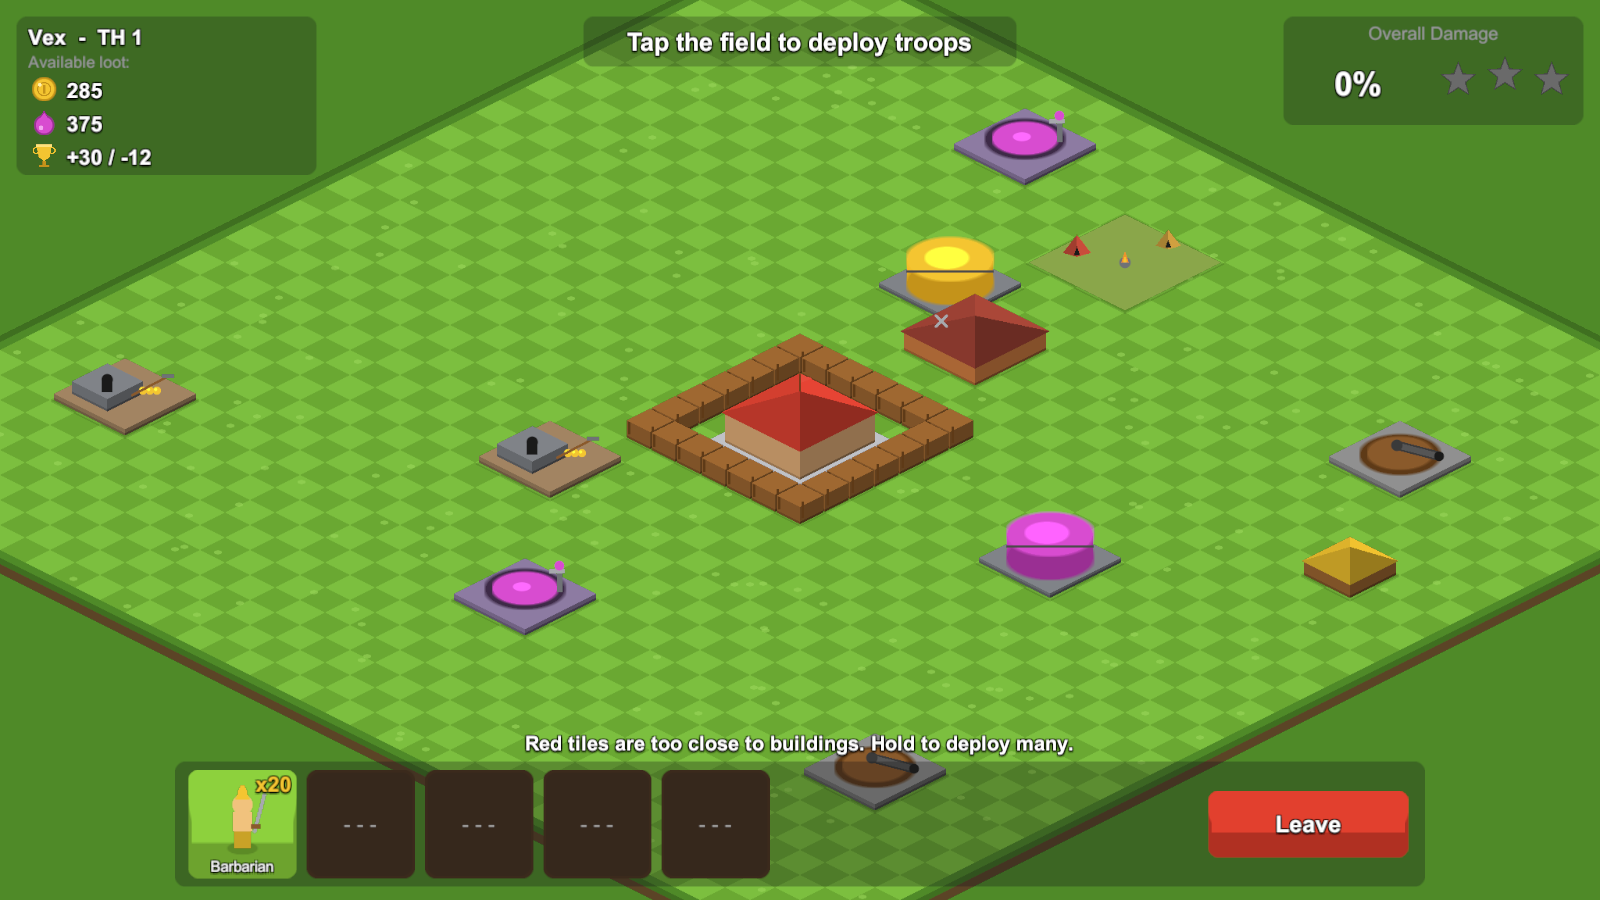
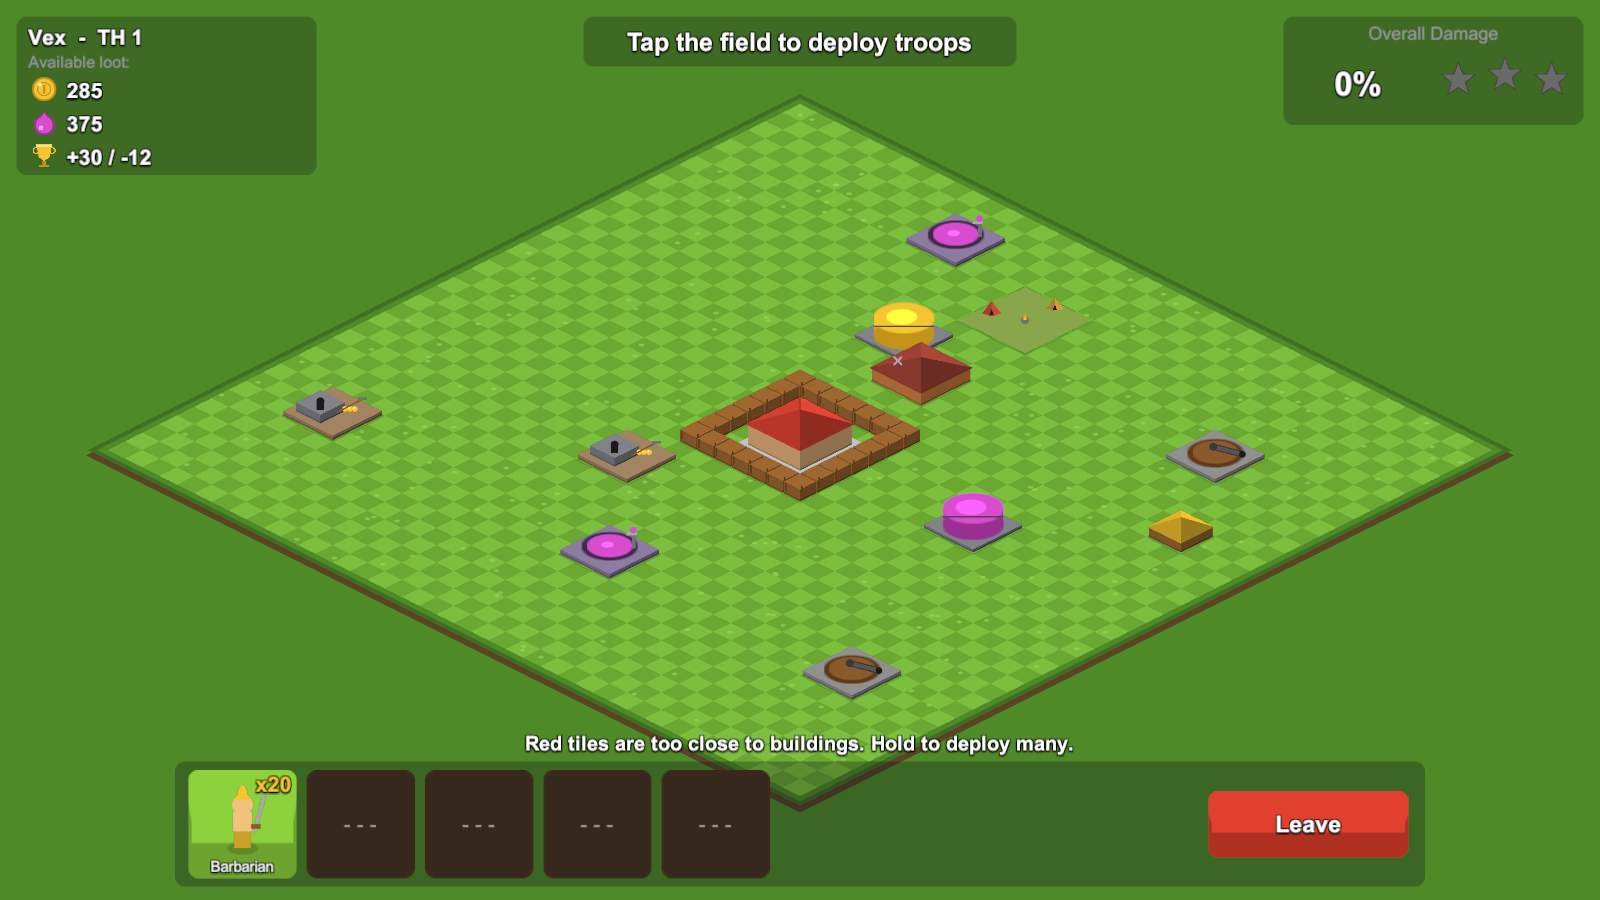
fix(ui): frame whole enemy base in battle; hide clock under shop lock label
- Add Core BattleFraming.Fit: iso bounding box of non-trap enemy buildings,
  zoom/center chosen to fit between HUD top/bottom insets at any aspect;
  5 EditMode tests (70 total).
- BattleHud reports its inset heights and the canvas reference size to
  BattleController, which uses them in Begin instead of a fixed zoom 9.
- ShopPanel deactivates the build-time row on locked cards so the clock
  icon no longer shows through the requirement label.
- Rebuilt, verified (smoke runner on the extracted zip), recaptured the
  13 screens at 1600x900/1280x720/1280x960, replaced docs/screenshots and
  the draft v1.0.0 release assets; CHANGELOG and plan updated.

diff --git a/VillageClash/Assets/Tests/EditMode/BattleFramingTests.cs b/VillageClash/Assets/Tests/EditMode/BattleFramingTests.cs
@@ -1,0 +1,94 @@
+using System.Collections.Generic;
+using NUnit.Framework;
+using VillageClash.Core;
+
+namespace VillageClash.Tests
+{
+    public class BattleFramingTests
+    {
+        static BuildingInstance B(BuildingType t, int x, int y, int size)
+            => new BuildingInstance { Type = t, Origin = new Int2(x, y), Size = size, Level = 1 };
+
+        static List<BuildingInstance> Base() => new List<BuildingInstance>
+        {
+            B(BuildingType.TownHall, 18, 18, 4),
+            B(BuildingType.Cannon, 10, 10, 3),   // bottom corner in iso (low x+y)
+            B(BuildingType.Cannon, 28, 28, 3),   // top corner
+            B(BuildingType.Cannon, 8, 30, 3),    // left-most (low x, high y)
+            B(BuildingType.Cannon, 30, 8, 3),    // right-most
+        };
+
+        static void AssertFootprintsVisible(List<BuildingInstance> bs, float aspect, float topFrac, float bottomFrac, float cx, float cy, float zoom)
+        {
+            float halfW = zoom * aspect;
+            float yMin = cy - zoom + 2 * zoom * bottomFrac, yMax = cy + zoom - 2 * zoom * topFrac;
+            foreach (var b in bs)
+            {
+                int[] dx = { 0, b.Size, 0, b.Size }, dy = { 0, 0, b.Size, b.Size };
+                for (int i = 0; i < 4; i++)
+                {
+                    IsoMath.CellToWorld(b.Origin.X + dx[i], b.Origin.Y + dy[i], out var wx, out var wy);
+                    Assert.That(wx, Is.InRange(cx - halfW, cx + halfW), $"{b.Type} corner {i} x");
+                    Assert.That(wy, Is.InRange(yMin, yMax), $"{b.Type} corner {i} y");
+                }
+            }
+        }
+
+        [Test]
+        public void FitKeepsEveryFootprintInsideTheUnobstructedBand()
+        {
+            var bs = Base();
+            BattleFraming.Fit(bs, 16f / 9f, 0.2f, 0.2f, 4f, 13f, out var cx, out var cy, out var zoom);
+            Assert.That(zoom, Is.InRange(4f, 13f));
+            AssertFootprintsVisible(bs, 16f / 9f, 0.2f, 0.2f, cx, cy, zoom);
+
+            BattleFraming.Fit(bs, 4f / 3f, 0.15f, 0.15f, 4f, 13f, out cx, out cy, out zoom);
+            AssertFootprintsVisible(bs, 4f / 3f, 0.15f, 0.15f, cx, cy, zoom);
+        }
+
+        [Test]
+        public void NarrowerAspectZoomsOutWhenWidthIsTheLimit()
+        {
+            var bs = new List<BuildingInstance> { B(BuildingType.Cannon, 2, 36, 2), B(BuildingType.Cannon, 36, 2, 2) }; // very wide, flat
+            BattleFraming.Fit(bs, 16f / 9f, 0f, 0f, 1f, 100f, out _, out _, out var wide);
+            BattleFraming.Fit(bs, 4f / 3f, 0f, 0f, 1f, 100f, out _, out _, out var narrow);
+            Assert.That(narrow, Is.GreaterThan(wide));
+        }
+
+        [Test]
+        public void HudInsetsShiftTheCenterSoTheBaseSitsBetweenThem()
+        {
+            var bs = Base();
+            BattleFraming.Fit(bs, 16f / 9f, 0f, 0f, 4f, 13f, out _, out var cyNone, out _);
+            BattleFraming.Fit(bs, 16f / 9f, 0f, 0.3f, 4f, 13f, out _, out var cyBottom, out _);
+            // a bottom strip hides the lower part of the view, so the camera must look lower to keep the base in the band
+            Assert.That(cyBottom, Is.LessThan(cyNone));
+        }
+
+        [Test]
+        public void ZoomIsClampedAndEmptyListsFallBackToPlateauCenter()
+        {
+            var bs = new List<BuildingInstance> { B(BuildingType.Cannon, 0, 39, 1), B(BuildingType.Cannon, 39, 0, 1), B(BuildingType.Cannon, 0, 0, 1), B(BuildingType.Cannon, 39, 39, 1) };
+            BattleFraming.Fit(bs, 4f / 3f, 0.2f, 0.2f, 4f, 13f, out _, out _, out var zoom);
+            Assert.That(zoom, Is.EqualTo(13f).Within(1e-4f));
+
+            BattleFraming.Fit(new List<BuildingInstance>(), 16f / 9f, 0.2f, 0.2f, 4f, 13f, out var cx, out var cy, out zoom);
+            Assert.That(cx, Is.EqualTo(0f).Within(1e-4f));
+            Assert.That(cy, Is.EqualTo(GameData.GridSize * 0.25f).Within(1e-4f));
+            Assert.That(zoom, Is.InRange(4f, 13f));
+        }
+
+        [Test]
+        public void TrapsDoNotAffectFraming()
+        {
+            var bs = Base();
+            BattleFraming.Fit(bs, 16f / 9f, 0.2f, 0.2f, 4f, 13f, out var cx0, out var cy0, out var z0);
+            bs.Add(B(BuildingType.Bomb, 1, 1, 1));
+            bs.Add(B(BuildingType.SpringTrap, 38, 38, 1));
+            BattleFraming.Fit(bs, 16f / 9f, 0.2f, 0.2f, 4f, 13f, out var cx1, out var cy1, out var z1);
+            Assert.That(cx1, Is.EqualTo(cx0).Within(1e-4f));
+            Assert.That(cy1, Is.EqualTo(cy0).Within(1e-4f));
+            Assert.That(z1, Is.EqualTo(z0).Within(1e-4f));
+        }
+    }
+}

diff --git a/VillageClash/Assets/Scripts/Core/Battle/BattleFraming.cs b/VillageClash/Assets/Scripts/Core/Battle/BattleFraming.cs
@@ -1,0 +1,67 @@
+using System.Collections.Generic;
+
+namespace VillageClash.Core
+{
+    /// <summary>
+    /// Picks an orthographic camera center and half-height (zoom) that shows every enemy building,
+    /// keeping the base out from under HUD strips at the top and bottom of the screen.
+    /// Pure math so it can be unit-tested; the caller clamps the result through the camera rig.
+    /// </summary>
+    public static class BattleFraming
+    {
+        /// <summary>World-unit padding around the footprint box so edge buildings do not touch the screen edge.</summary>
+        public const float Margin = 1.0f;
+        /// <summary>Extra room above the box: building sprites rise above their footprint diamond.</summary>
+        public const float TopExtra = 1.0f;
+        public const float FallbackZoom = 9f;
+
+        /// <param name="buildings">Enemy buildings; traps are ignored (they are hidden during a raid).</param>
+        /// <param name="aspect">Screen width / height.</param>
+        /// <param name="topFrac">Fraction of screen height covered by HUD at the top.</param>
+        /// <param name="bottomFrac">Fraction of screen height covered by HUD at the bottom.</param>
+        public static void Fit(IReadOnlyList<BuildingInstance> buildings, float aspect, float topFrac, float bottomFrac,
+            float minZoom, float maxZoom, out float cx, out float cy, out float zoom)
+        {
+            float minX = float.MaxValue, minY = float.MaxValue, maxX = float.MinValue, maxY = float.MinValue;
+            bool any = false;
+            if (buildings != null)
+            {
+                foreach (var b in buildings)
+                {
+                    if (b == null || b.Def.IsTrap) continue;
+                    any = true;
+                    // Footprint diamond extremes in iso: left = (x, y+s), right = (x+s, y), bottom = (x, y), top = (x+s, y+s).
+                    IsoMath.CellToWorld(b.Origin.X, b.Origin.Y + b.Size, out var lx, out _);
+                    IsoMath.CellToWorld(b.Origin.X + b.Size, b.Origin.Y, out var rx, out _);
+                    IsoMath.CellToWorld(b.Origin.X, b.Origin.Y, out _, out var by);
+                    IsoMath.CellToWorld(b.Origin.X + b.Size, b.Origin.Y + b.Size, out _, out var ty);
+                    if (lx < minX) minX = lx;
+                    if (rx > maxX) maxX = rx;
+                    if (by < minY) minY = by;
+                    if (ty > maxY) maxY = ty;
+                }
+            }
+            if (!any)
+            {
+                cx = 0f; cy = GameData.GridSize * 0.25f;
+                zoom = Clamp(FallbackZoom, minZoom, maxZoom);
+                return;
+            }
+            minX -= Margin; maxX += Margin; minY -= Margin; maxY += Margin + TopExtra;
+
+            float usable = 1f - topFrac - bottomFrac;
+            if (usable < 0.1f) usable = 0.1f;
+            if (aspect < 0.1f) aspect = 0.1f;
+            float needH = (maxY - minY) / (2f * usable);
+            float needW = (maxX - minX) / (2f * aspect);
+            zoom = Clamp(needH > needW ? needH : needW, minZoom, maxZoom);
+
+            cx = (minX + maxX) * 0.5f;
+            // The unobstructed band is centred at screen fraction (bottomFrac + 1 - topFrac) / 2 from the bottom;
+            // move the camera so the box centre lands there.
+            cy = (minY + maxY) * 0.5f - zoom * (bottomFrac - topFrac);
+        }
+
+        static float Clamp(float v, float lo, float hi) => v < lo ? lo : v > hi ? hi : v;
+    }
+}

diff --git a/VillageClash/Assets/Scripts/Runtime/Battle/BattleController.cs b/VillageClash/Assets/Scripts/Runtime/Battle/BattleController.cs
@@ -18,6 +18,15 @@ namespace VillageClash
         public event Action Changed; // selection or counts changed (HUD refresh)
 
         GameRoot R => GameRoot.I;
+        // HUD layout the battle camera keeps the base clear of; the HUD (UI assembly) sets these when it is created.
+        float uiRefW = 1920f, uiRefH = 1080f, hudTop = 0f, hudBottom = 0f;
+
+        /// <summary>Canvas reference size and the canvas-unit heights of the top and bottom HUD strips.</summary>
+        public void SetHudInsets(float referenceWidth, float referenceHeight, float top, float bottom)
+        {
+            uiRefW = Mathf.Max(1, referenceWidth); uiRefH = Mathf.Max(1, referenceHeight);
+            hudTop = Mathf.Max(0, top); hudBottom = Mathf.Max(0, bottom);
+        }
         float endTimer; bool reported; float holdDeployCd;
 
         void Start()
@@ -36,9 +45,7 @@ namespace VillageClash
             R.Labels.Clear();
             R.Village.ShowTraps = false;
             R.Village.Show(sim.Enemy.Village, false);
-            var th = sim.Enemy.Village.TownHall;
-            IsoMath.FootprintCenter(th != null ? th.Origin : new Int2(18, 18), th != null ? th.Size : 4, out var wx, out var wy);
-            R.Cam.Focus(new Vector2(wx, wy), 9f);
+            FrameEnemyBase(sim);
             Renderer = new GameObject("BattleRenderer").AddComponent<BattleRenderer>();
             Renderer.transform.SetParent(transform, false);
             Renderer.Init(this);
@@ -46,6 +53,17 @@ namespace VillageClash
             R.SetMode(GameMode.Battle);
             Sfx.Play(SfxId.Open);
             Changed?.Invoke();
+        }
+
+        /// <summary>Zoom and center so the whole enemy base is visible between the top HUD panels and the troop bar.</summary>
+        void FrameEnemyBase(BattleSim sim)
+        {
+            float w = Mathf.Max(1, Screen.width), h = Mathf.Max(1, Screen.height);
+            float uiScale = Mathf.Min(w / uiRefW, h / uiRefH); // CanvasScaler Expand: smaller ratio wins
+            float topFrac = hudTop * uiScale / h, bottomFrac = hudBottom * uiScale / h;
+            BattleFraming.Fit(sim.Enemy.Village.Buildings, w / h, topFrac, bottomFrac, CameraRig.MinZoom, CameraRig.MaxZoom,
+                out var cx, out var cy, out var zoom);
+            R.Cam.Focus(new Vector2(cx, cy), zoom);
         }
 
         TroopType FirstAvailable()

diff --git a/VillageClash/Assets/Scripts/UI/UIKit.cs b/VillageClash/Assets/Scripts/UI/UIKit.cs
@@ -60,6 +60,8 @@ namespace VillageClash.UI
     /// <summary>Code-built uGUI toolkit: canvas, primitives, modals, toasts.</summary>
     public static class UIKit
     {
+        /// <summary>Canvas design resolution; the scaler keeps all of it visible (Expand match mode).</summary>
+        public const float ReferenceWidth = 1920f, ReferenceHeight = 1080f;
         public static Canvas Canvas { get; private set; }
         public static RectTransform Root { get; private set; }
         public static RectTransform HudLayer { get; private set; }
@@ -83,7 +85,7 @@ namespace VillageClash.UI
             Canvas.sortingOrder = 10;
             var sc = go.GetComponent<CanvasScaler>();
             sc.uiScaleMode = CanvasScaler.ScaleMode.ScaleWithScreenSize;
-            sc.referenceResolution = new Vector2(1920, 1080);
+            sc.referenceResolution = new Vector2(ReferenceWidth, ReferenceHeight);
             sc.screenMatchMode = CanvasScaler.ScreenMatchMode.Expand;
             Root = (RectTransform)go.transform;
             runner = go.AddComponent<Runner>();

diff --git a/VillageClash/Assets/Scripts/UI/BattleHud.cs b/VillageClash/Assets/Scripts/UI/BattleHud.cs
@@ -18,8 +18,12 @@ namespace VillageClash.UI
         readonly List<(TroopType type, BtnView btn, Text count)> slots = new List<(TroopType, BtnView, Text)>();
         RectTransform lootRow;
 
+        /// <summary>Canvas-unit heights of the HUD strips the battle camera must keep the base clear of (loot panel 20+190; troop bar 16+150 plus the hint above it).</summary>
+        public const float TopInset = 210f, BottomInset = 210f;
+
         public static BattleHud Create(BattleController battle)
         {
+            battle.SetHudInsets(UIKit.ReferenceWidth, UIKit.ReferenceHeight, TopInset, BottomInset);
             var rt = UIKit.Node("BattleHud", UIKit.HudLayer);
             UIKit.Stretch(rt);
             var h = rt.gameObject.AddComponent<BattleHud>();

diff --git a/VillageClash/Assets/Scripts/UI/ShopPanel.cs b/VillageClash/Assets/Scripts/UI/ShopPanel.cs
@@ -190,6 +190,9 @@ namespace VillageClash.UI
                 var lt = UIKit.Label(lockP.transform, st.LockText, 24);
                 UIKit.Place((RectTransform)lt.transform, UIKit.MC, new Vector2(0, -30), new Vector2(230, 80));
                 buy.SetEnabled(false);
+                // The build-time row sits exactly under the lock label and shows through the translucent overlay.
+                time.gameObject.SetActive(false);
+                clock.gameObject.SetActive(false);
             }
         }
 

diff --git a/docs/superpowers/plans/2026-10-10-village-clash.md b/docs/superpowers/plans/2026-10-10-village-clash.md
@@ -90,7 +90,7 @@
 ### Task 13: League, Clans, Settings, defense log, polish
 **Files:** `UI/LeaguePanel.cs`, `UI/ClanPanel.cs` (mock data, search), `UI/SettingsPanel.cs` (toggles, mock connect buttons, More Settings → Reset Village), `UI/DefenseLogToast.cs`; `Editor/ProjectSetup.BuildMac()`.
 - [x] Headless macOS build and app launch.
-- [ ] Complete final visual and native-input acceptance across window sizes. The 1600×900 review found and drove the fixes listed under Follow-up 2; final recapture awaits an unlocked desktop.
+- [ ] Complete final visual and native-input acceptance across window sizes. Visual acceptance done 2026-10-11 23:10 (three sizes, see Follow-up 2); native-input hand check still open.
 
 ### Task 14: Verification
 - [x] `unity test --mode EditMode` all green; build succeeds; app launches; smoke a full loop (place, collect, train, attack, result, save reload). Write `README.md` with how to open/run/test/build. Final commit.
@@ -116,9 +116,9 @@
 - [x] Add input-router regression checks for UI interception, pan, zoom, modal blocking, long-press drag, invalid placement, and cancellation.
 - [x] Add `-qa-session` for manual testing without using the normal player save.
 - [x] Rebuild macOS player; rerun EditMode tests (50/50 passed) and standalone smoke-runner checks.
-- [x] Recapture the final build at 1600×900, 1280×720, and 1280×960; replace the screenshot artifacts after review. Done 2026-10-11 22:51 against the 1.0.0 release build on an unlocked desktop: all three sizes passed `-shots` (13 screens each, 62 checks, exact pixel dimensions). The 1600×900 set replaces `docs/screenshots/`. Review notes, none blocking for 1.0.0:
-  - Battle camera does not fit the whole enemy base at 4:3 (1280×960): the rightmost defense is clipped by the window edge. At every size the bottom corner of the base sits under the troop bar. Consider fitting the base to the viewport minus HUD insets.
-  - Locked shop cards: the build-time clock icon shows through the "Level N Town Hall Required" label.
+- [x] Recapture the final build at 1600×900, 1280×720, and 1280×960; replace the screenshot artifacts after review. Redone 2026-10-11 23:09 on the fixed build (same three sizes, 13 screens each, 62 checks, exit 0); `docs/screenshots/` holds the new 1600×900 set. First pass 2026-10-11 22:51 against the 1.0.0 release build on an unlocked desktop: all three sizes passed `-shots` (13 screens each, 62 checks, exact pixel dimensions). The 1600×900 set replaces `docs/screenshots/`. Review notes, none blocking for 1.0.0:
+  - Battle camera does not fit the whole enemy base at 4:3 (1280×960): the rightmost defense is clipped by the window edge. At every size the bottom corner of the base sits under the troop bar. Fixed 2026-10-11 23:10: `BattleFraming.Fit` (Core, 5 tests) computes the iso bounding box of all non-trap enemy buildings and picks the zoom and center that keep it inside the screen minus the HUD insets `BattleHud` reports (210 canvas units top and bottom, scaled like the canvas); `BattleController.Begin` uses it instead of a fixed zoom 9 on the Town Hall. Recaptured at all three sizes: the full base is visible and clear of the troop bar.
+  - Locked shop cards: the build-time clock icon shows through the "Level N Town Hall Required" label. Fixed 2026-10-11: the time label and clock are deactivated when the card is locked.
   - The scripted "You can't place it there!" toast is still visible in the shop and building-popup captures because the invalid-placement step precedes them; toasts intentionally draw above modals.
 - [ ] Exercise native mouse/keyboard controls on an unlocked desktop. Input-router checks pass. 2026-10-11: System Events automation is refused ("osascript is not allowed assistive access"), so this needs a hand check or Accessibility permission for the terminal in System Settings > Privacy & Security > Accessibility.
 
@@ -156,4 +156,4 @@ instances closed and Editor Play mode stopped before release.
 - [x] `scripts/package_mac.sh`: strip, sign (ad-hoc or Developer ID), verify, zip with sha256, optional notarization.
 - [x] `LICENSE` (MIT) and `CHANGELOG.md`; README sections for packaging and license.
 - [x] Rebuild with `BuildMac` once the save-reliability work is committed; confirm `Info.plist` shows the new bundle id, version and icon; run `scripts/package_mac.sh`. Done 2026-10-11 on a scratch copy of the project (the open Editor locks the main path): 65 EditMode tests pass, `Info.plist` shows `com.shengruantn.villageclash` 1.0.0 with `PlayerIcon.icns`, `verify_smoke.py` and `package_mac.sh` pass.
-- [ ] Tag `v1.0.0` and publish the GitHub Release. Status 2026-10-11: main pushed; draft release "Village Clash 1.0.0" created with the zip and sha256 attached (tag is created on publish). Publish after the desktop QA and screenshot recapture in Follow-up 2. Update 2026-10-11 22:15: the `.sha256` asset originally embedded an absolute local path, so `shasum -c` could not verify a download; `package_mac.sh` now writes the basename only and the release asset was replaced (same hash).
+- [ ] Tag `v1.0.0` and publish the GitHub Release. Status 2026-10-11: main pushed; draft release "Village Clash 1.0.0" created with the zip and sha256 attached (tag is created on publish). Publish after the desktop QA and screenshot recapture in Follow-up 2. Update 2026-10-11 22:15: the `.sha256` asset originally embedded an absolute local path, so `shasum -c` could not verify a download; `package_mac.sh` now writes the basename only and the release asset was replaced (same hash). Update 2026-10-11 23:11: rebuilt with the battle-camera and shop-lock fixes (70/70 EditMode tests, all 8 smoke-runner checks on the extracted zip); both assets replaced, re-downloaded and verified with `shasum -c` (sha256 88b29fb5…02f5).

diff --git a/CHANGELOG.md b/CHANGELOG.md
@@ -14,8 +14,10 @@ First playable release (macOS, Apple silicon and Intel).
 - Leagues from Unranked to Titan, mock top players and clans, profile and settings panels.
 - Offline production, simulated incoming raids and a defense log.
 - Fully procedural art, UI and audio; no imported assets.
-- 65 EditMode tests (including save-file recovery and interrupted-raid settlement), a headless gameplay smoke runner and a screenshot capture mode.
+- 70 EditMode tests (including save-file recovery, interrupted-raid settlement and battle camera framing), a headless gameplay smoke runner and a screenshot capture mode.
 - Save reliability: writes go to a temporary file and atomically replace `village.json`; the previous valid save is kept as `village.json.bak`; unreadable files are preserved; interrupted raids are checkpointed and settled once on the next launch.
+- Battle camera frames the whole enemy base between the HUD strips at any window size (`BattleFraming` in Core; the HUD reports its top and bottom inset heights to the battle controller).
+- Locked shop cards hide the build-time row so the clock icon no longer shows through the "Town Hall Required" label.
 - Release identity: bundle id `com.shengruantn.villageclash`, version 1.0.0, procedural app icon.
 - `scripts/package_mac.sh` strips debug symbols, signs, verifies and zips the app; optional notarization. The `.sha256` file records the zip basename so `shasum -c` works from any download folder.
 - `ProjectSetup.BuildMac` applies release settings before building and removes the Burst debug folder afterwards.
